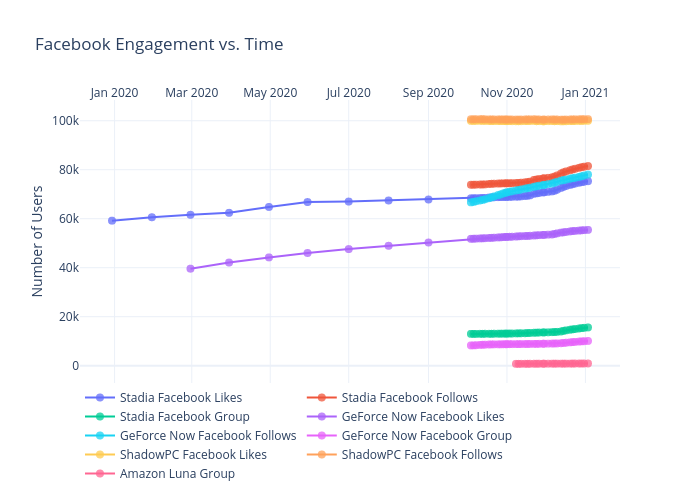
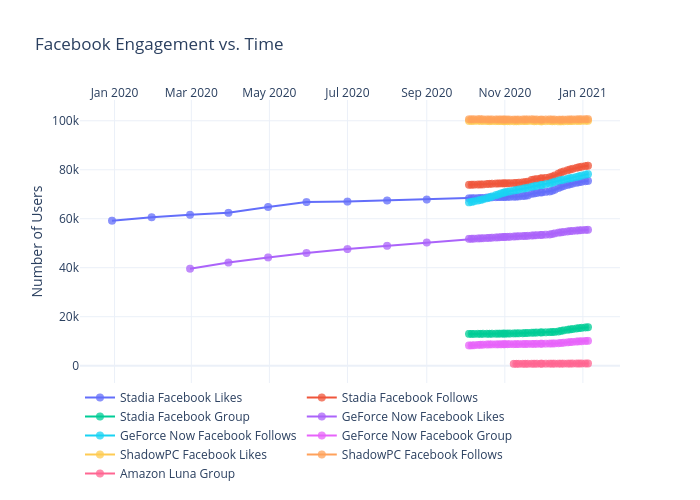
Add files via upload

diff --git a/facebook/figure.js b/facebook/figure.js
@@ -141,7 +141,8 @@ var figure = {
                 "74681",
                 "74911",
                 "75086",
-                "75318"
+                "75318",
+                "75447"
             ],
             "marker": {
                 "size": 8,
@@ -292,7 +293,8 @@ var figure = {
                 "80771",
                 "81041",
                 "81243",
-                "81506"
+                "81506",
+                "81643"
             ],
             "marker": {
                 "size": 8,
@@ -443,7 +445,8 @@ var figure = {
                 "15175",
                 "15330",
                 "15449",
-                "15599"
+                "15599",
+                "15697"
             ],
             "marker": {
                 "size": 8,
@@ -594,7 +597,8 @@ var figure = {
                 "55151",
                 "55250",
                 "55336",
-                "55433"
+                "55433",
+                "55485"
             ],
             "marker": {
                 "size": 8,
@@ -745,7 +749,8 @@ var figure = {
                 "77060",
                 "77347",
                 "77640",
-                "78021"
+                "78021",
+                "78211"
             ],
             "marker": {
                 "size": 8,
@@ -896,7 +901,8 @@ var figure = {
                 "9839",
                 "9929",
                 "9983",
-                "10088"
+                "10088",
+                "10133"
             ],
             "marker": {
                 "size": 8,
@@ -1047,7 +1053,8 @@ var figure = {
                 "99910",
                 "99931",
                 "99949",
-                "99973"
+                "99973",
+                "99987"
             ],
             "marker": {
                 "size": 8,
@@ -1198,7 +1205,8 @@ var figure = {
                 "100585",
                 "100605",
                 "100624",
-                "100648"
+                "100648",
+                "100662"
             ],
             "marker": {
                 "size": 8,
@@ -1349,7 +1357,8 @@ var figure = {
                 "872",
                 "874",
                 "880",
-                "891"
+                "891",
+                "897"
             ],
             "marker": {
                 "size": 8,
@@ -1368,8 +1377,8 @@ var figure = {
             "side": "top",
             "type": "date",
             "range": [
-                "2019-12-07 02:57:15.3473",
-                "2021-01-25 21:02:44.6527"
+                "2019-12-06 23:59:11.214",
+                "2021-01-28 00:00:48.786"
             ],
             "title": {
                 "text": ""
@@ -1379,8 +1388,8 @@ var figure = {
         "yaxis": {
             "type": "linear",
             "range": [
-                -6406.542902389866,
-                107797.54290238986
+                -6407.473078030522,
+                107811.47307803053
             ],
             "title": {
                 "text": "Number of Users"
